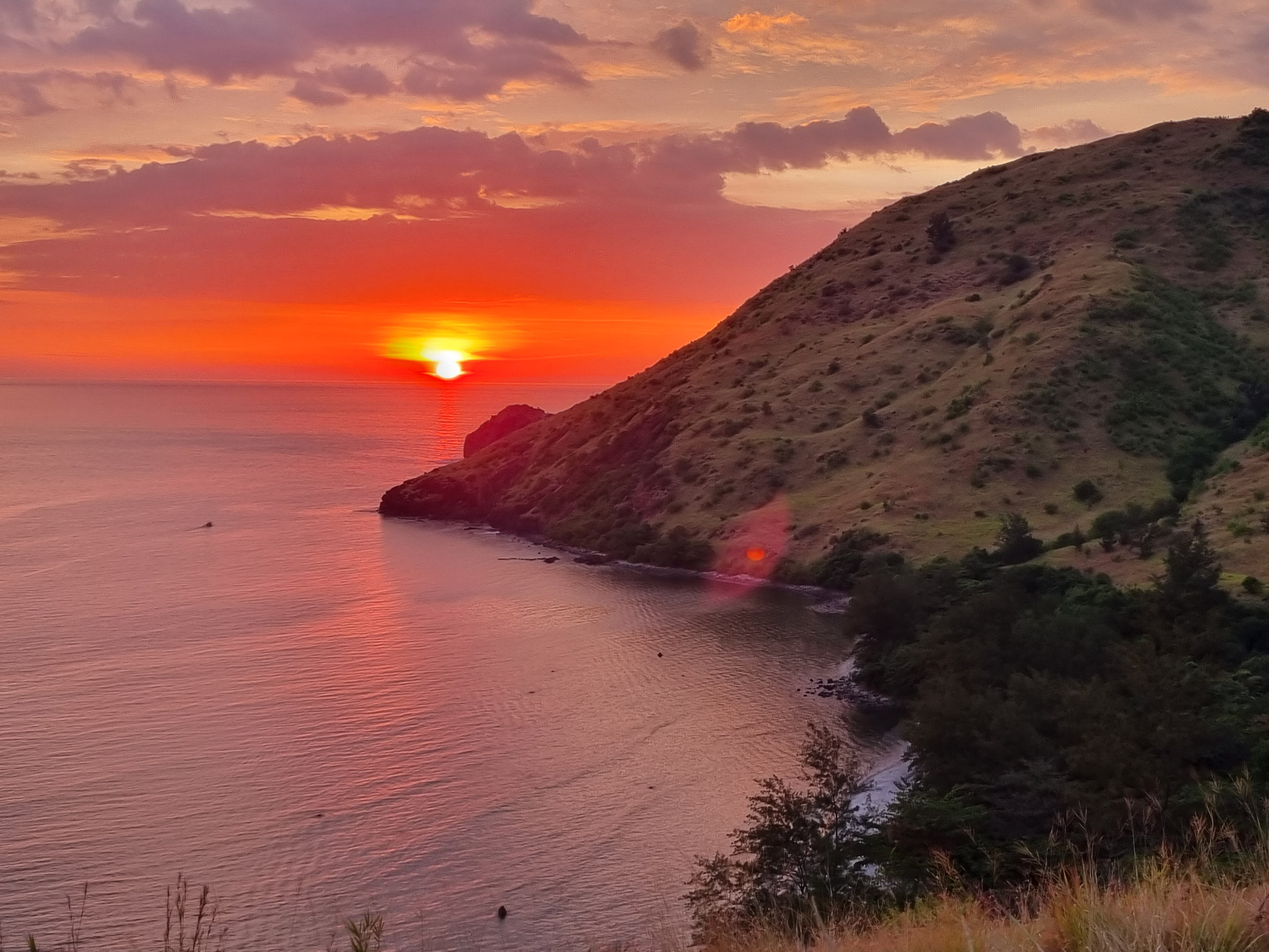
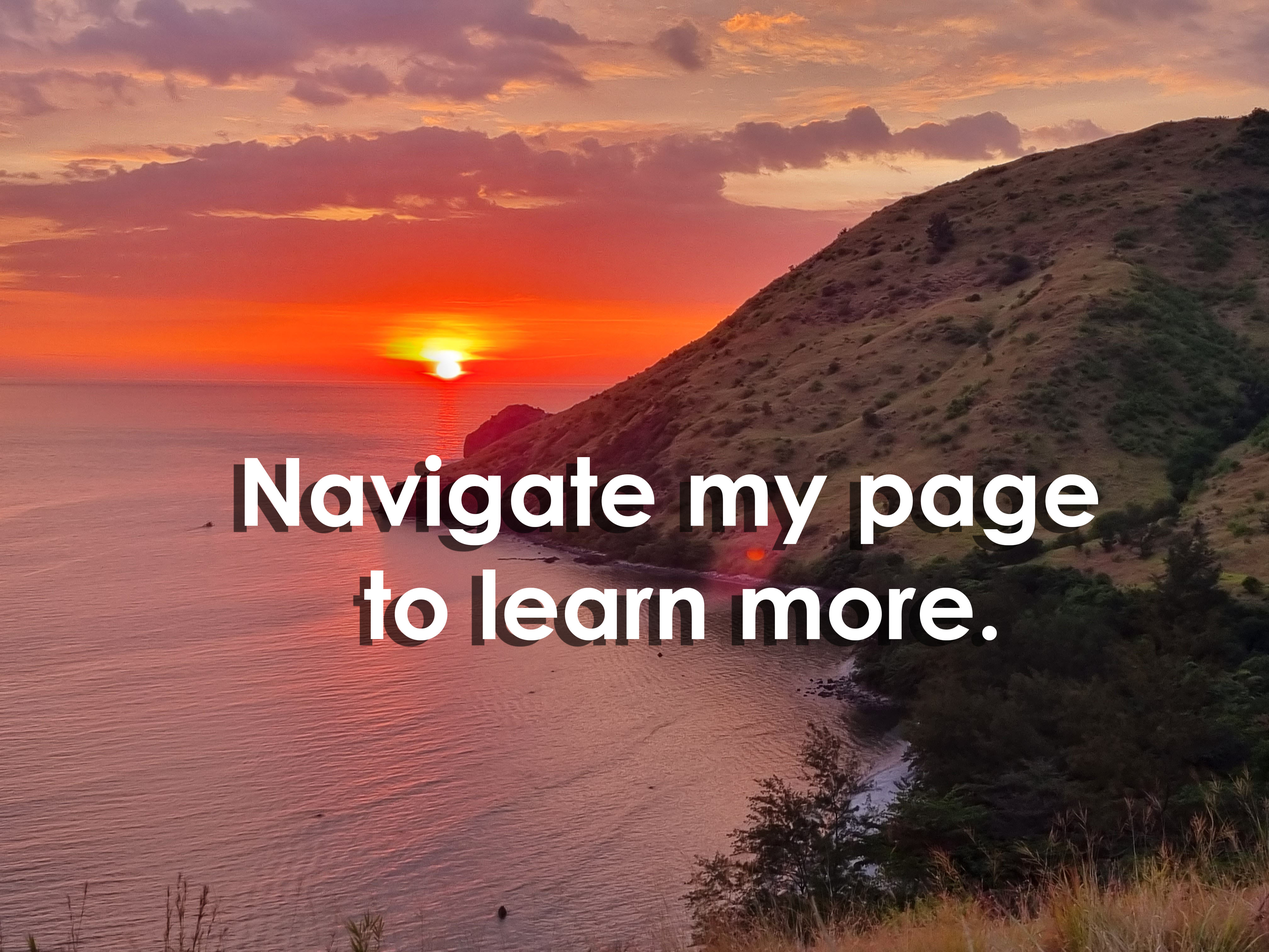
Add capstone code

Changed region(s): [[0.1562, 0.4663, 0.875, 0.6839]]

diff --git a/index.html b/index.html
@@ -19,7 +19,7 @@
 <!-- navbar -->
 			<nav id="landing">
 			<nav class="navbar navbar-expand-lg navbar-dark bg-transparent sticky-top">
-			<img src="/docs/4.1/assets/brand/bootstrap-solid.svg" width="30" height="30" class="d-inline-block align-top" alt="">
+			<img src=" ./photos/mylogo.png" width="30" height="30" class="d-inline-block align-top" alt="">
 			  <a class="navbar-brand text-dark" href="#landing">Dave's Page</a>
 			  <button class="navbar-toggler" type="button" data-toggle="collapse" data-target="#navbarText" aria-controls="navbarText" aria-expanded="false" aria-label="Toggle navigation">
 			    <span class="navbar-toggler-icon"></span>
@@ -27,7 +27,7 @@
 			  <div class="collapse navbar-collapse" id="navbarText">
 			    <ul class="navbar-nav ml-auto">
 			      <li class="nav-item active">
-			        <a class="nav-link" href="#landing">Home<span class="sr-only">(current)</span></a>
+			        <a class="nav-link" href="#landing">Home<span class="sr-only"></span></a>
 			      </li>
 			      <li class="nav-item">
 			        <a class="nav-link" href="#1">About</a>
@@ -44,7 +44,7 @@
 
 <!-- carousel -->
 		<section>
-			<div class="container">
+			<div class="container carou">
 				<div class="row">
 					<div class="col-12">
 						<div id="carouselExampleIndicators" class="carousel slide" data-ride="carousel">
@@ -55,28 +55,15 @@
 						  </ol>
 						  <div class="carousel-inner">
 						    <div class="carousel-item active">
-						    	  <div class="carousel-caption d-none d-md-block">
-						    	    <h1>Hi, I'm Dave Supan!</h1>
-						    	</div>
-						      <img class="d-block w-100 mx-auto" src=" ./photos/topmountain.jpg" alt="First slide">
+						      <img class="carousel1 d-block w-100 mx-auto" src=" ./photos/topmountain.jpg" alt="First slide">
 						    </div>
 						    <div class="carousel-item">
-						    	
-						    	  <div class="carousel-caption d-none d-md-block">
-						    	    <h1>I'll accompany you throughout your website creation journey.</h1>
-						    	</div>
-						    	    
 
-						      <img class="d-block w-100 mx-auto" src=" ./photos/destinare.jpg" alt="Second slide">
+						      <img class="carousel2 d-block w-100 mx-auto" src=" ./photos/destinare.jpg" alt="Second slide">
 						    </div>
 						    <div class="carousel-item">
-						   
-						    	  <div class="carousel-caption d-none d-md-block">
-						    	    <h1>Navigate my page to learn more.</h1>
-						    	</div>
 						    	    
-
-						      <img class="d-block w-100 mx-auto" src=" ./photos/sunset.jpg" alt="Third slide">
+						      <img class="carousel3 d-block w-100 mx-auto" src=" ./photos/sunset.jpg" alt="Third slide">
 						    </div>
 						  </div>
 						  <a class="carousel-control-prev" href="#carouselExampleIndicators" role="button" data-slide="prev">
@@ -103,13 +90,13 @@
 				<h1 class="text-center text-dark">About me</h1>
 				<p  class="text-center text-dark">I provide front-end web development services for professionals, organizations, and private companies.</p>
 				<div class="row d-flex flex-wrap">
-					<div class="col-md-8 px-5 order-md-1 order-sm-2">
+					<div class="col-md-8 px-5">
 						<h3 class="text-center text-dark">Professional Background</h3>
 						<p class="text-justified text-dark">I'm an industrial engineering graduate. I first worked as a call center agent before moving to a finished goods warehouse as an operations specialist and then to a courier warehouse as a coordinator--two positions which are more in line with my college degree. When the pandemic happened in 2020 the warehouse had to close for several weeks and stopped their operations temporarily. During the downtime with the possibility of being laid off and for personal reasons, I decided it was better for me to move to a different work so I tried applying for a government job since I passed the Civil Service Commission Professional Exam. I worked as an administrative assistant under a contract which ended last December 2021. I now want to pursue my  interest in web development and I am fortunate to have found Zuitt where I can learn about it and get a job in the field.</p>
 						<h3 class="text-center text-dark">Why I Chose Web Development</h3>
 						<p class="text-justified text-dark">I remember as a teenager that I was customizing themes on my blog which sparked an interest in wanting to go for the web dev field, but due to circumstances it was kept in the backburner of my life for many years. Long story short, I wanted the flexibility of the work and I find it fun to build and customize websites. Nowadays as we are transitioning more and more into the digitalization of most products and services, being in the web dev field will prove to be lucrative.</p>
 					</div>
-					<div class="col-md-4 col-sm-12 order-md-2 order-sm-1">
+					<div class="col-md-4 col-sm-12 order-first">
 						<img class="dave p-4 img-fluid flex-wrap" src=" ./photos/dave.jpg">
 					</div>
 					</div>
@@ -153,23 +140,23 @@
 <!-- Contact -->
 		<section id="contact">
 			<h1 class="text-center text-dark mt-5">Contact me</h1>
-			<p class="text-center text-dark font-weight-bold m-0">Email address: supdavtor@gmail.com</p>
+			<p class="text-center text-dark font-weight-bold">Email address: supdavtor@gmail.com</p>
 			<p class="text-center text-dark font-weight-bold">Mobile: +63 966 203 2634</p>
 			<div class="container">
-				<div class="row m-5">
+				<div class="row">
 					<div class="col-md-6 col-sm-12">
 						<div>
-						<h4 class="ml-2">Send me a message</h4>
+						<h4 class="text-center m-3">Send me a message</h4>
 						<form>
-						  <div class="form-group">
+						  <div class="form-group m-3">
 						    <label for="exampleFormControlInput1"> Your Email Address</label>
 						    <input type="email" class="form-control" id="exampleFormControlInput1" placeholder="name@example.com">
 						  </div>
-						  <div class="form-group">
+						  <div class="form-group m-3">
 						    <label for="exampleFormControlInput1">Your Full Name</label>
 						    <input type="email" class="form-control" id="exampleFormControlInput2" placeholder="Juan Dela Cruz">
 						  </div>
-						  <div class="form-group">
+						  <div class="form-group m-3">
 						    <label for="exampleFormControlTextarea1">What is your concern?</label>
 						    <textarea class="form-control" id="exampleFormControlTextarea1" rows="3"></textarea>
 						  </div>
@@ -202,17 +189,13 @@
 
 
 <!-- footer -->
-		<div>
-			<div>
-				<div>
-					<ul class="text-light bg-secondary list-unstyled m-0 d-flex justify-content-end">
-						<li class="px-2">Copyright</li>
-						<li class="px-2">2022</li>
-						<li class="px-2">All rights reserved</li>
-					</ul>
-				</div>
-			</div>
-		</div>
+		<nav class="navbar navbar-dark bg-dark">
+		  <div class="container-fluid">
+		    <span class="navbar-brandx mb-0 text-light align-content-center">© 2020 Copyright. All rights reserved</span>
+		  </div>
+		</nav>
+
+				      
 
 
 

diff --git a/style.css b/style.css
@@ -122,16 +122,6 @@ p {
     opacity: 0.7;
 }
 
-
-
-/*section {
-	display: none;
-}
-
-section:target {
-	display: block;
-}*/
-
 .fa {
   padding: 20px;
   font-size: 30px;
@@ -158,3 +148,68 @@ section:target {
   background: #007bb5;
   color: white;
 }
+
+@media(max-width: 992px) {
+	.carousel1 {
+		padding-right: 80px;
+		position: relative;
+	}
+	.carousel2 {
+		padding-right: 80px;
+  		position: relative;
+	}
+	.carousel3 {
+		padding-right: 80px;
+  		position: relative;
+  	}
+  	#contact {
+  		margin-left: 160px;
+  		margin-right: 160px;
+  	} 
+  	.imgp1 {
+  		max-width: 80%;
+  		margin-top: 5px;
+  		padding-left: 50px;
+  		padding-top: 35px;
+  	}
+  	.imgp2 {
+  		padding-left: 50px;
+  	}
+
+  	.imgp3 {
+  		padding-left: 50px;
+  	}
+}
+
+ @media(max-width: 576px) {
+ 	.dave {
+ 		max-width: 80%;
+ 		position: relative;
+ 	}
+  	.carousel1 {
+ 		padding-right: 80px;
+ 		position: relative;
+ 	}
+ 	.carousel2 {
+ 		padding-right: 80px;
+   		position: relative;
+ 	}
+ 	.carousel3 {
+ 		padding-right: 80px;
+   		position: relative;
+   	}
+ }
+
+ @media(max-width: 768px) {
+ 	.carousel1 {
+		padding-right: 100px;
+		position: relative;
+	}
+	.carousel2 {
+		padding-right: 100px;
+  		position: relative;
+	}
+	.carousel3 {
+		padding-right: 110px;
+  		position: relative;
+  	}
